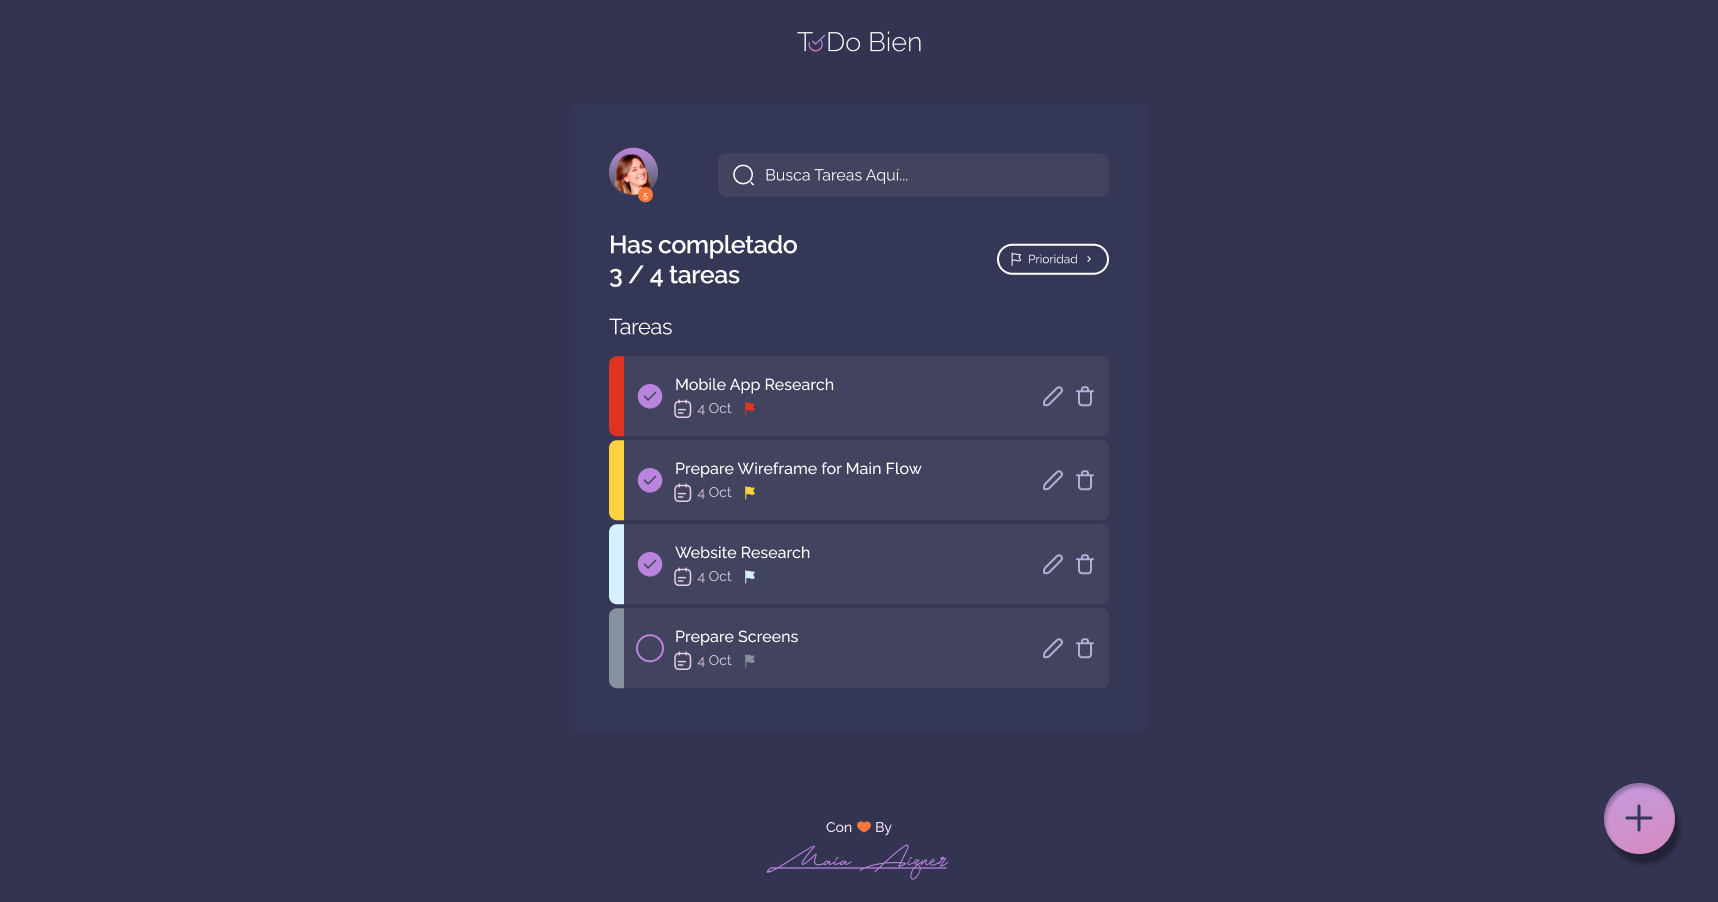
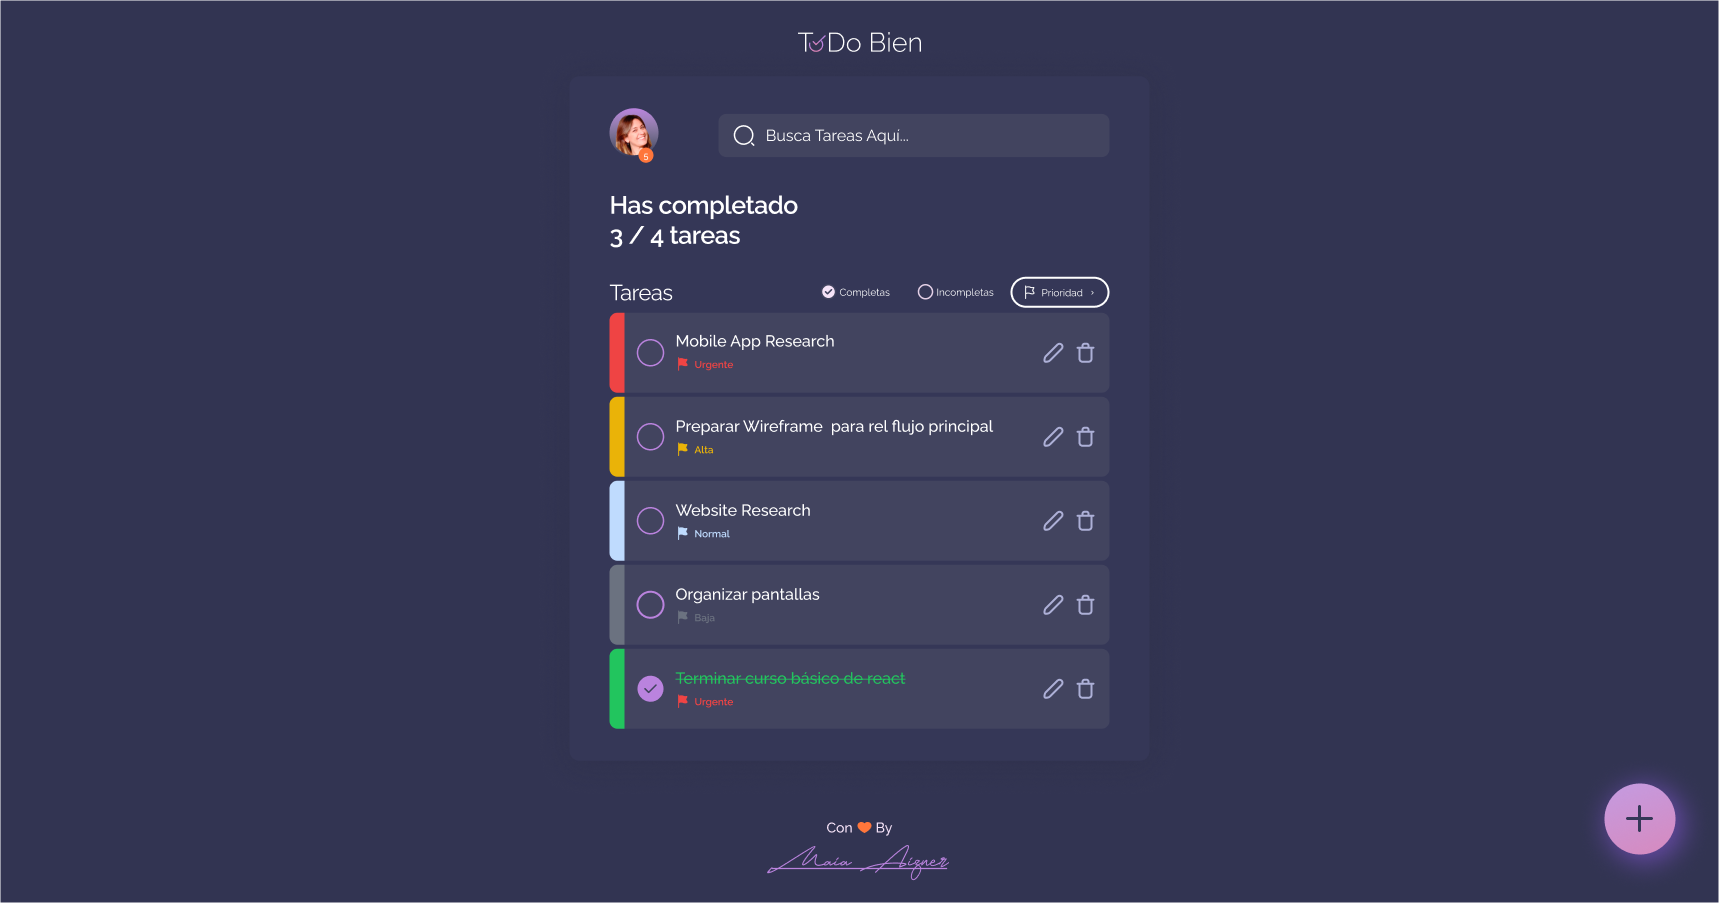
Revisión y modificación de readme

diff --git a/README.md b/README.md
@@ -5,14 +5,18 @@
 T✅Do Bien es una aplicación de lista de tareas diseñada para ayudarte a organizar tus tareas diarias de manera eficiente. Este proyecto está enfocado en proporcionar una interfaz intuitiva y funcional para gestionar tus pendientes, con características clave que incluyen:
 
 - **Gestión de Prioridades:** Asigna prioridades a tus tareas y visualízalas claramente.
-- **Filtros Avanzados y Búsqueda:** Filtra y busca tus tareas por prioridad y fechas.
+- **Filtros Avanzados y Búsqueda:** Filtra y busca tus tareas por prioridad y estado de completitud.
+- **Funcionalidad de Edición:** Edita tus tareas, incluyendo su texto y prioridad, directamente desde la aplicación.
 - **Interfaz Amigable:** Disfruta de una experiencia de usuario fluida con un diseño moderno y funcional.
 
 ## Características
 
 - **Orden de Prioridades:** Clasifica tus tareas en diferentes niveles de importancia.
-- **Fecha de Inicio y Fin:** Establece fechas de vencimiento para una mejor planificación.
+- **Filtro de completas e incompletas:** Combina los filtros junto con las prioridades para encontrar fácilmente tus tareas.
+- **Buscador por palabra:** Busca tareas de manera rápida utilizando palabras clave.
+- **Funcionalidad de Edición:** Permite modificar el contenido y la prioridad de las tareas existentes.
 - **Interfaz Responsiva:** Optimizada para funcionar en dispositivos móviles y de escritorio.
+
 
 ## Tecnologías Utilizadas
 
